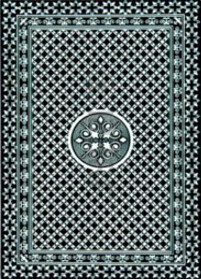
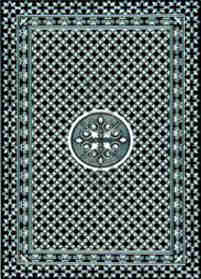
Imagenes reducidas de tamaño y tileadas aquellas que se ha podido. Mejorado el rendimiento en chrome, pero las animaciones se ven un poco a saltitos. Quitados box-shadow gigantes.

Changed region(s): [[0.0, 0.0, 1.0, 1.0]]

diff --git a/vscpu.html b/vscpu.html
@@ -10,8 +10,16 @@
 		<script type="text/javascript" src="js/IABrisca.js"></script>
 	</head>
 	<body>
-		<div id="contenedor">
-			<div id="mesa" style="width:100%;display:none;">
+		<div id="contenedor_vscpu">
+			<div id="mensajeInicio">
+				Elije el número de oponentes:<br>
+				<div class="ico" onclick="iniciarPartidaBrisca_VSCPU(2)"><img src="/img/iconos/1.png"></div>
+				<div class="ico" onclick="iniciarPartidaBrisca_VSCPU(3)"><img src="/img/iconos/2.png"></div>
+				<div class="ico" onclick="iniciarPartidaBrisca_VSCPU(4)"><img src="/img/iconos/3.png"></div>
+			</div>
+		</div>
+		<div id="contenedor" style="display:none;">
+			<div id="mesa" style="width:100%;">
 				<div id="todas_las_cartas">
 					<!--llenar este div con todas las cartas desde js-->
 				</div>
@@ -63,14 +71,7 @@
 				
 			</div>
 		</div>
-		<div id="contenedor_vscpu">
-			<div id="mensajeInicio">
-				Elije el número de oponentes:<br>
-				<div class="ico" onclick="iniciarPartidaBrisca_VSCPU(2)"><img src="/img/iconos/1.png"></div>
-				<div class="ico" onclick="iniciarPartidaBrisca_VSCPU(3)"><img src="/img/iconos/2.png"></div>
-				<div class="ico" onclick="iniciarPartidaBrisca_VSCPU(4)"><img src="/img/iconos/3.png"></div>
-			</div>
-		</div>
+		
 		
 		
 		
@@ -118,8 +119,8 @@
 				if(typeof cantidadJugadores === "undefined" || cantidadJugadores < 2 || cantidadJugadores > 4)
 					return;
 				
-				document.getElementById("mensajeInicio").style.display = "none";
-				document.getElementById("mesa").style.display = "";
+				document.getElementById("contenedor_vscpu").style.display = "none";
+				document.getElementById("contenedor").style.display = "";
 			
 				IABriscaInstancia = new IABrisca();
 				
@@ -290,9 +291,17 @@
 				cartaObj.style.top = (hastaObj.offsetTop -heightCarta2 +((Math.random()*2) -1) *maximoAzarDesfaseWidth) +"px";
 				cartaObj.style.left = (hastaObj.offsetLeft -widthCarta2 +((Math.random()*2) -1) *maximoAzarDesfaseHeight) +"px";
 				if(hasta.indexOf("P2") != -1 || hasta.indexOf("P4") != -1){
+					cartaObj.style.webkitTransform =
+					cartaObj.style.mozTransform =
+					cartaObj.style.msTransform =
+					cartaObj.style.oTransform =
 					cartaObj.style.transform = 'rotate('+(90 +((Math.random()*2) -1) *maximoAzarDesgaseGrados)+'deg)';
 				}
 				else{
+					cartaObj.style.webkitTransform =
+					cartaObj.style.mozTransform =
+					cartaObj.style.msTransform =
+					cartaObj.style.oTransform =
 					cartaObj.style.transform = 'rotate('+(((Math.random()*2) -1) *maximoAzarDesgaseGrados)+'deg)';
 				}
 				cartaObj.style.zIndex = ++zIndexTemp;
@@ -405,8 +414,8 @@
 			}
 			
 			function resetBrisca(){
-				document.getElementById("mensajeInicio").style.display = "";
-				document.getElementById("mesa").style.display = "none";
+				document.getElementById("contenedor_vscpu").style.display = "";
+				document.getElementById("contenedor").style.display = "none";
 				document.getElementById("mensaje_fin").className = "off";
 			}
 			

diff --git a/css/mesajuego.css b/css/mesajuego.css
@@ -7,7 +7,7 @@
 
 #mesa {
 	background-image: url("/img/fondos/2.jpg");
-	background-size: cover;
+	background-repeat: repeat;
 	height: 100%;
 	width: 70%;
 	position: absolute;
@@ -15,7 +15,6 @@
 	right: 0;
 	display: table-cell;
 	overflow: hidden;
-	box-shadow: 0 0 500px rgba(0, 0, 0, 0.5) inset;
 }
 
 
@@ -94,11 +93,12 @@
 .carta{
 	border-radius: 7px;
 	box-shadow: 0 0 5px #000000;
+	-webkit-box-shadow: none;
 	position: absolute;
-	-webkit-transition: top 1s ease, left 1s ease, transform 1s ease;
-	-moz-transition: top 1s ease, left 1s ease, transform 1s ease;
-	-ms-transition: top 1s ease, left 1s ease, transform 1s ease;
-	-o-transition: top 1s ease, left 1s ease, transform 1s ease;
+	-webkit-transition: top 1s ease, left 1s ease, -webkit-transform 1s ease;
+	-moz-transition: top 1s ease, left 1s ease, -moz-transform 1s ease;
+	-ms-transition: top 1s ease, left 1s ease, -ms-transform 1s ease;
+	-o-transition: top 1s ease, left 1s ease, -o-transform 1s ease;
 	transition: top 1s ease, left 1s ease, transform 1s ease;
 }
 
@@ -129,6 +129,10 @@
 	top: 30%;
 	width: 40%;
 	z-index: 500;
+	-webkit-transition: all 1s ease;
+	-moz-transition: all 1s ease;
+	-ms-transition: all 1s ease;
+	-o-transition: all 1s ease;
 	transition: all 1s ease;
 }
 #mensaje_fin.off{
@@ -143,7 +147,11 @@
 	display: inline-block;
 	padding: 5px 15px;
 	cursor: pointer;
-	transition:all .5s ease;
+	-webkit-transition: all .5s ease;
+	-moz-transition: all .5s ease;
+	-ms-transition: all .5s ease;
+	-o-transition: all .5s ease;
+	transition: all .5s ease;
 	margin: 5px;
 	text-decoration: none;
 }

diff --git a/css/vscpu.css b/css/vscpu.css
@@ -24,6 +24,10 @@
 	cursor: pointer;
 	display: inline-block;
 	width: 15%;
+	-webkit-transition: all .5s ease;
+	-moz-transition: all .5s ease;
+	-ms-transition: all .5s ease;
+	-o-transition: all .5s ease;
 	transition: all .5s ease;
 }
 
